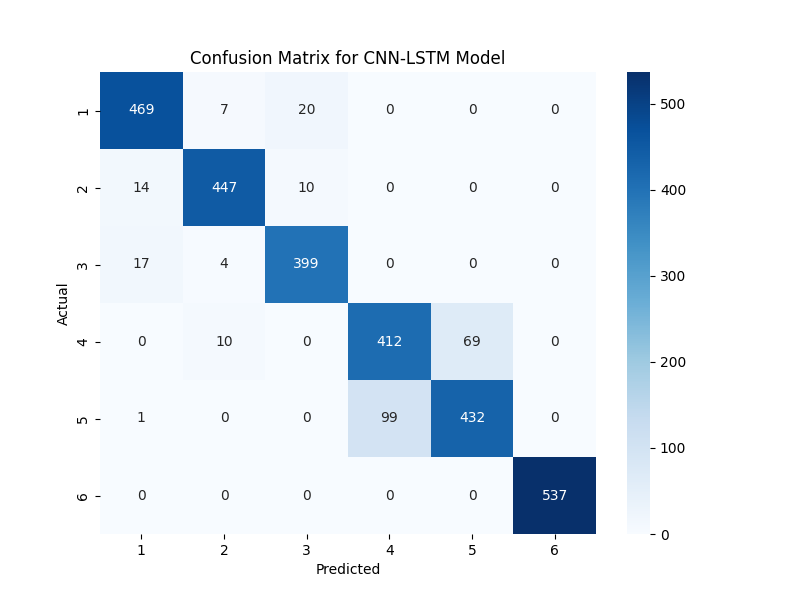
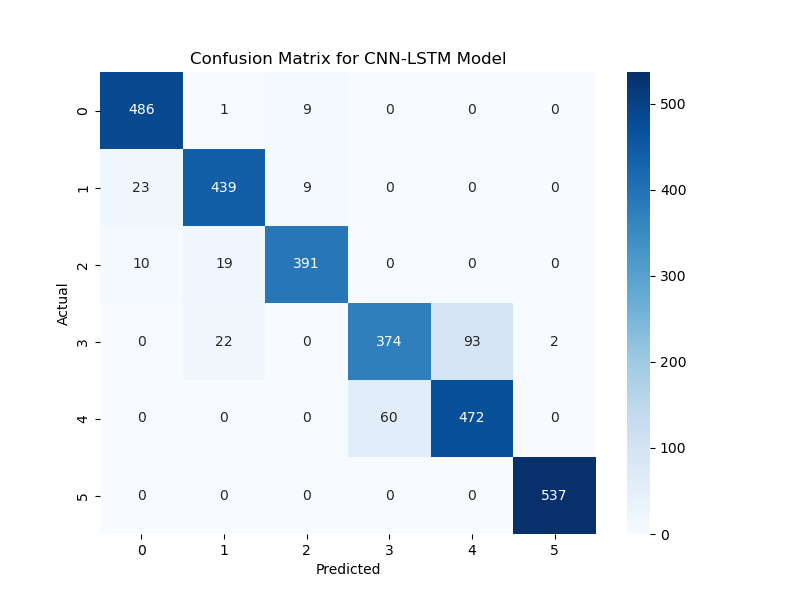
updates to lstm model + figures

diff --git a/models.py b/models.py
@@ -10,31 +10,15 @@ from sklearn.preprocessing import LabelEncoder
 from sklearn.metrics import classification_report, confusion_matrix
 from utils import load_dataset
 
-# # data preparation from project structure
-base_path = "UCI HAR Dataset/"
-# train_features = base_path + "train/X_train.txt"
-train_labels = base_path + "train/y_train.txt"
-# test_features = base_path + "test/X_test.txt"
-test_labels = base_path + "test/y_test.txt"
-# activity_labels_path = base_path + "activity_labels.txt"
-
 # loading the data
-# needed the raw data as it had the timestepped data
 X_train, y_train, X_test, y_test = load_dataset()
-
-# encoding the activity labels
-label_encoder = LabelEncoder()
-y_train_encoded = label_encoder.fit_transform(y_train)
-y_test_encoded = label_encoder.transform(y_test)
+n_timesteps, n_features, n_outputs = X_train.shape[1], X_train.shape[2], y_train.shape[1]
 
 ##### 1) LSTM MODEL #####
 def lstm_model(X_train, y_train, X_test, y_test):
-
-    n_timesteps, n_features, n_outputs = X_train.shape[1], X_train.shape[2], y_train.shape[1]
-
     # Define the LSTM Model
     model = Sequential([
-        Input(shape=(n_timesteps, n_features)), 
+        Input(shape=(n_timesteps, n_features)),
         LSTM(128, return_sequences=True),
         Dropout(0.5),
         LSTM(64, return_sequences=False),
@@ -43,20 +27,20 @@ def lstm_model(X_train, y_train, X_test, y_test):
         Dense(n_outputs, activation='softmax')  # Output layer
     ])
 
-    # Compiling the model
+    # Compile the model
     model.compile(optimizer='adam', loss='categorical_crossentropy', metrics=['accuracy'])
 
-    # Training the model
+    # Train the model
     history = model.fit(X_train, y_train, epochs=10, batch_size=32, validation_data=(X_test, y_test))
 
-    # Evaluating the model
+    # Evaluate the model
     test_loss, test_accuracy = model.evaluate(X_test, y_test, verbose=0)
     print(f"Test Accuracy: {test_accuracy:.2f}")
 
     # Classification Report
     y_pred = np.argmax(model.predict(X_test), axis=1)
-    target_names = [str(cls) for cls in label_encoder.classes_]
-    print(classification_report(y_test_encoded, y_pred, target_names=target_names))
+    target_names = [str(cls) for cls in range(y_train.shape[1])]
+    print(classification_report(np.argmax(y_test, axis=1), y_pred, target_names=target_names))
 
     # Plotting training and validation loss
     plt.figure(figsize=(10, 6))
@@ -68,11 +52,10 @@ def lstm_model(X_train, y_train, X_test, y_test):
     plt.legend()
     plt.show()
 
-    # Plotting confusion matrix 
-    cm = confusion_matrix(y_test_encoded, y_pred)
-
+    # Plotting confusion matrix
+    cm = confusion_matrix(np.argmax(y_test, axis=1), y_pred)
     plt.figure(figsize=(8, 6))
-    sns.heatmap(cm, annot=True, fmt='d', cmap='Blues', xticklabels=label_encoder.classes_, yticklabels=label_encoder.classes_)
+    sns.heatmap(cm, annot=True, fmt='d', cmap='Blues', xticklabels=range(y_train.shape[1]), yticklabels=range(y_train.shape[1]))
     plt.title('Confusion Matrix for LSTM Model')
     plt.xlabel('Predicted')
     plt.ylabel('Actual')
@@ -85,9 +68,7 @@ def cnn_model():
 
 ##### 3) CNN-LSTM MODEL #####
 def cnn_lstm_model(X_train, y_train, X_test, y_test):
-    n_timesteps, n_features, n_outputs = X_train.shape[1], X_train.shape[2], y_train.shape[1]
 
-    print(n_timesteps, n_features, n_outputs)
     X_train = X_train.reshape((X_train.shape[0], X_train.shape[1], n_features))
     X_test = X_test.reshape((X_test.shape[0], X_train.shape[1], n_features))
 
@@ -120,8 +101,8 @@ def cnn_lstm_model(X_train, y_train, X_test, y_test):
 
     # Printing classification report
     y_pred = np.argmax(model.predict(X_test), axis=1)
-    target_names = [str(cls) for cls in label_encoder.classes_]
-    print(classification_report(y_test_encoded, y_pred, target_names=target_names))
+    target_names = [str(cls) for cls in range(y_train.shape[1])]
+    print(classification_report(np.argmax(y_test, axis=1), y_pred, target_names=target_names))
 
     # Plotting training and validation loss
     plt.figure(figsize=(10, 6))
@@ -134,15 +115,16 @@ def cnn_lstm_model(X_train, y_train, X_test, y_test):
     plt.show()
 
     # Plotting confusion matrix
-    cm = confusion_matrix(y_test_encoded, y_pred)
+    cm = confusion_matrix(np.argmax(y_test, axis=1), y_pred)
     plt.figure(figsize=(8, 6))
-    sns.heatmap(cm, annot=True, fmt='d', cmap='Blues', xticklabels=label_encoder.classes_, yticklabels=label_encoder.classes_)
+    sns.heatmap(cm, annot=True, fmt='d', cmap='Blues', xticklabels=range(y_train.shape[1]), yticklabels=range(y_train.shape[1]))
     plt.title('Confusion Matrix for CNN-LSTM Model')
     plt.xlabel('Predicted')
     plt.ylabel('Actual')
     plt.show()
 
-lstm_model(X_train, y_train, X_test, y_test)
+# RUNNING THE MODELS
+# lstm_model(X_train, y_train, X_test, y_test)
 
-# cnn_lstm_model(X_train, y_train, X_test, y_test)
+cnn_lstm_model(X_train, y_train, X_test, y_test)
 
